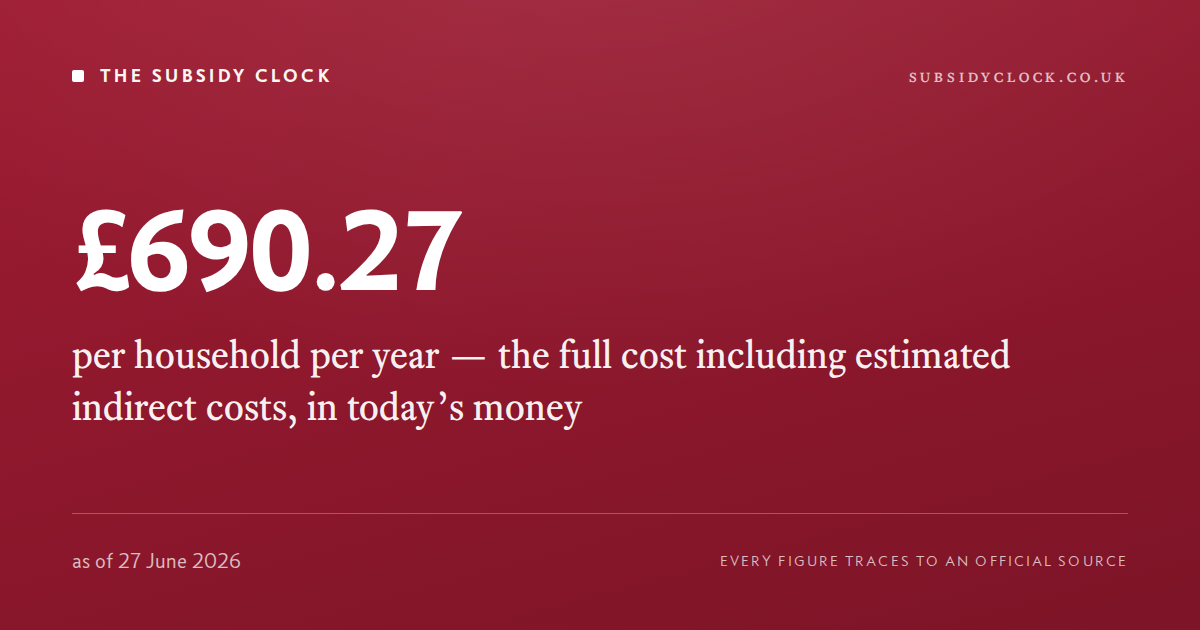
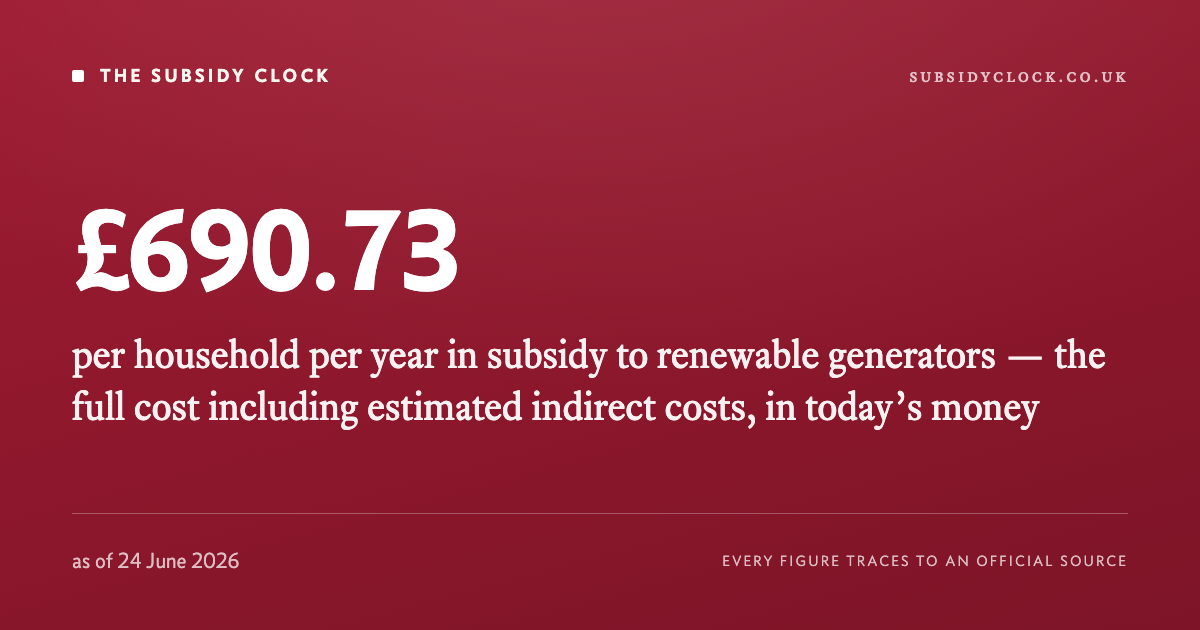
feat(cards): name renewable-generator subsidy on household full-cost card
Full-cost household card read "the full cost including estimated indirect
costs" with no mention of what the cost is for. Mirror the direct card's
phrasing so the figure names the subsidy.

diff --git a/site/s/household-full.html b/site/s/household-full.html
@@ -3,14 +3,14 @@
 <head>
 <meta charset="utf-8">
 <meta name="robots" content="noindex">
-<title>£690.27 per household per year — the full cost including estimated indirect costs, in today’s money — The Subsidy Clock</title>
-<meta name="description" content="As of 27 June 2026. Every figure traces to an official source.">
-<meta property="og:title" content="£690.27 per household per year — the full cost including estimated indirect costs, in today’s money">
-<meta property="og:description" content="As of 27 June 2026. Every figure traces to an official source.">
+<title>£690.73 per household per year in subsidy to renewable generators — the full cost including estimated indirect costs, in today’s money — The Subsidy Clock</title>
+<meta name="description" content="As of 24 June 2026. Every figure traces to an official source.">
+<meta property="og:title" content="£690.73 per household per year in subsidy to renewable generators — the full cost including estimated indirect costs, in today’s money">
+<meta property="og:description" content="As of 24 June 2026. Every figure traces to an official source.">
 <meta property="og:type" content="website">
 <meta property="og:site_name" content="The Subsidy Clock">
 <meta property="og:url" content="https://subsidyclock.co.uk/s/household-full">
-<meta property="og:image" content="https://subsidyclock.co.uk/share/household-full.png?v=e1502401fb">
+<meta property="og:image" content="https://subsidyclock.co.uk/share/household-full.png?v=447c82b8ef">
 <meta property="og:image:width" content="1200">
 <meta property="og:image:height" content="630">
 <meta name="twitter:card" content="summary_large_image">
@@ -18,7 +18,7 @@
 <meta http-equiv="refresh" content="0;url=https://subsidyclock.co.uk/">
 </head>
 <body>
-<p>£690.27 per household per year — the full cost including estimated indirect costs, in today’s money (as of 27 June 2026) — <a href="https://subsidyclock.co.uk/">The Subsidy Clock</a>.</p>
+<p>£690.73 per household per year in subsidy to renewable generators — the full cost including estimated indirect costs, in today’s money (as of 24 June 2026) — <a href="https://subsidyclock.co.uk/">The Subsidy Clock</a>.</p>
 <script>location.replace("https://subsidyclock.co.uk/");</script>
 </body>
 </html>

diff --git a/src/subsidy_engine/sharecards.py b/src/subsidy_engine/sharecards.py
@@ -187,8 +187,9 @@ def load_facts(data_dir: Path | str) -> tuple[list[dict], str, str]:
              "anchor": None, "stub": True, "group": HEAD, "scope": "full"},
             {"slug": "household-full",
              "figure": fmt_pence(rr["per_household_per_year_gbp"] + ir["per_household_per_year_gbp"]),
-             "label": "per household per year — the full cost including "
-                      "estimated indirect costs, in today’s money",
+             "label": "per household per year in subsidy to renewable generators "
+                      "— the full cost including estimated indirect costs, in "
+                      "today’s money",
              "anchor": None, "stub": True, "group": HEAD, "scope": "full"},
             {"slug": "per-mwh-full",
              "figure": fmt_pence(rr["per_mwh_delivered_gbp"] + ir["per_mwh_delivered_gbp"]),